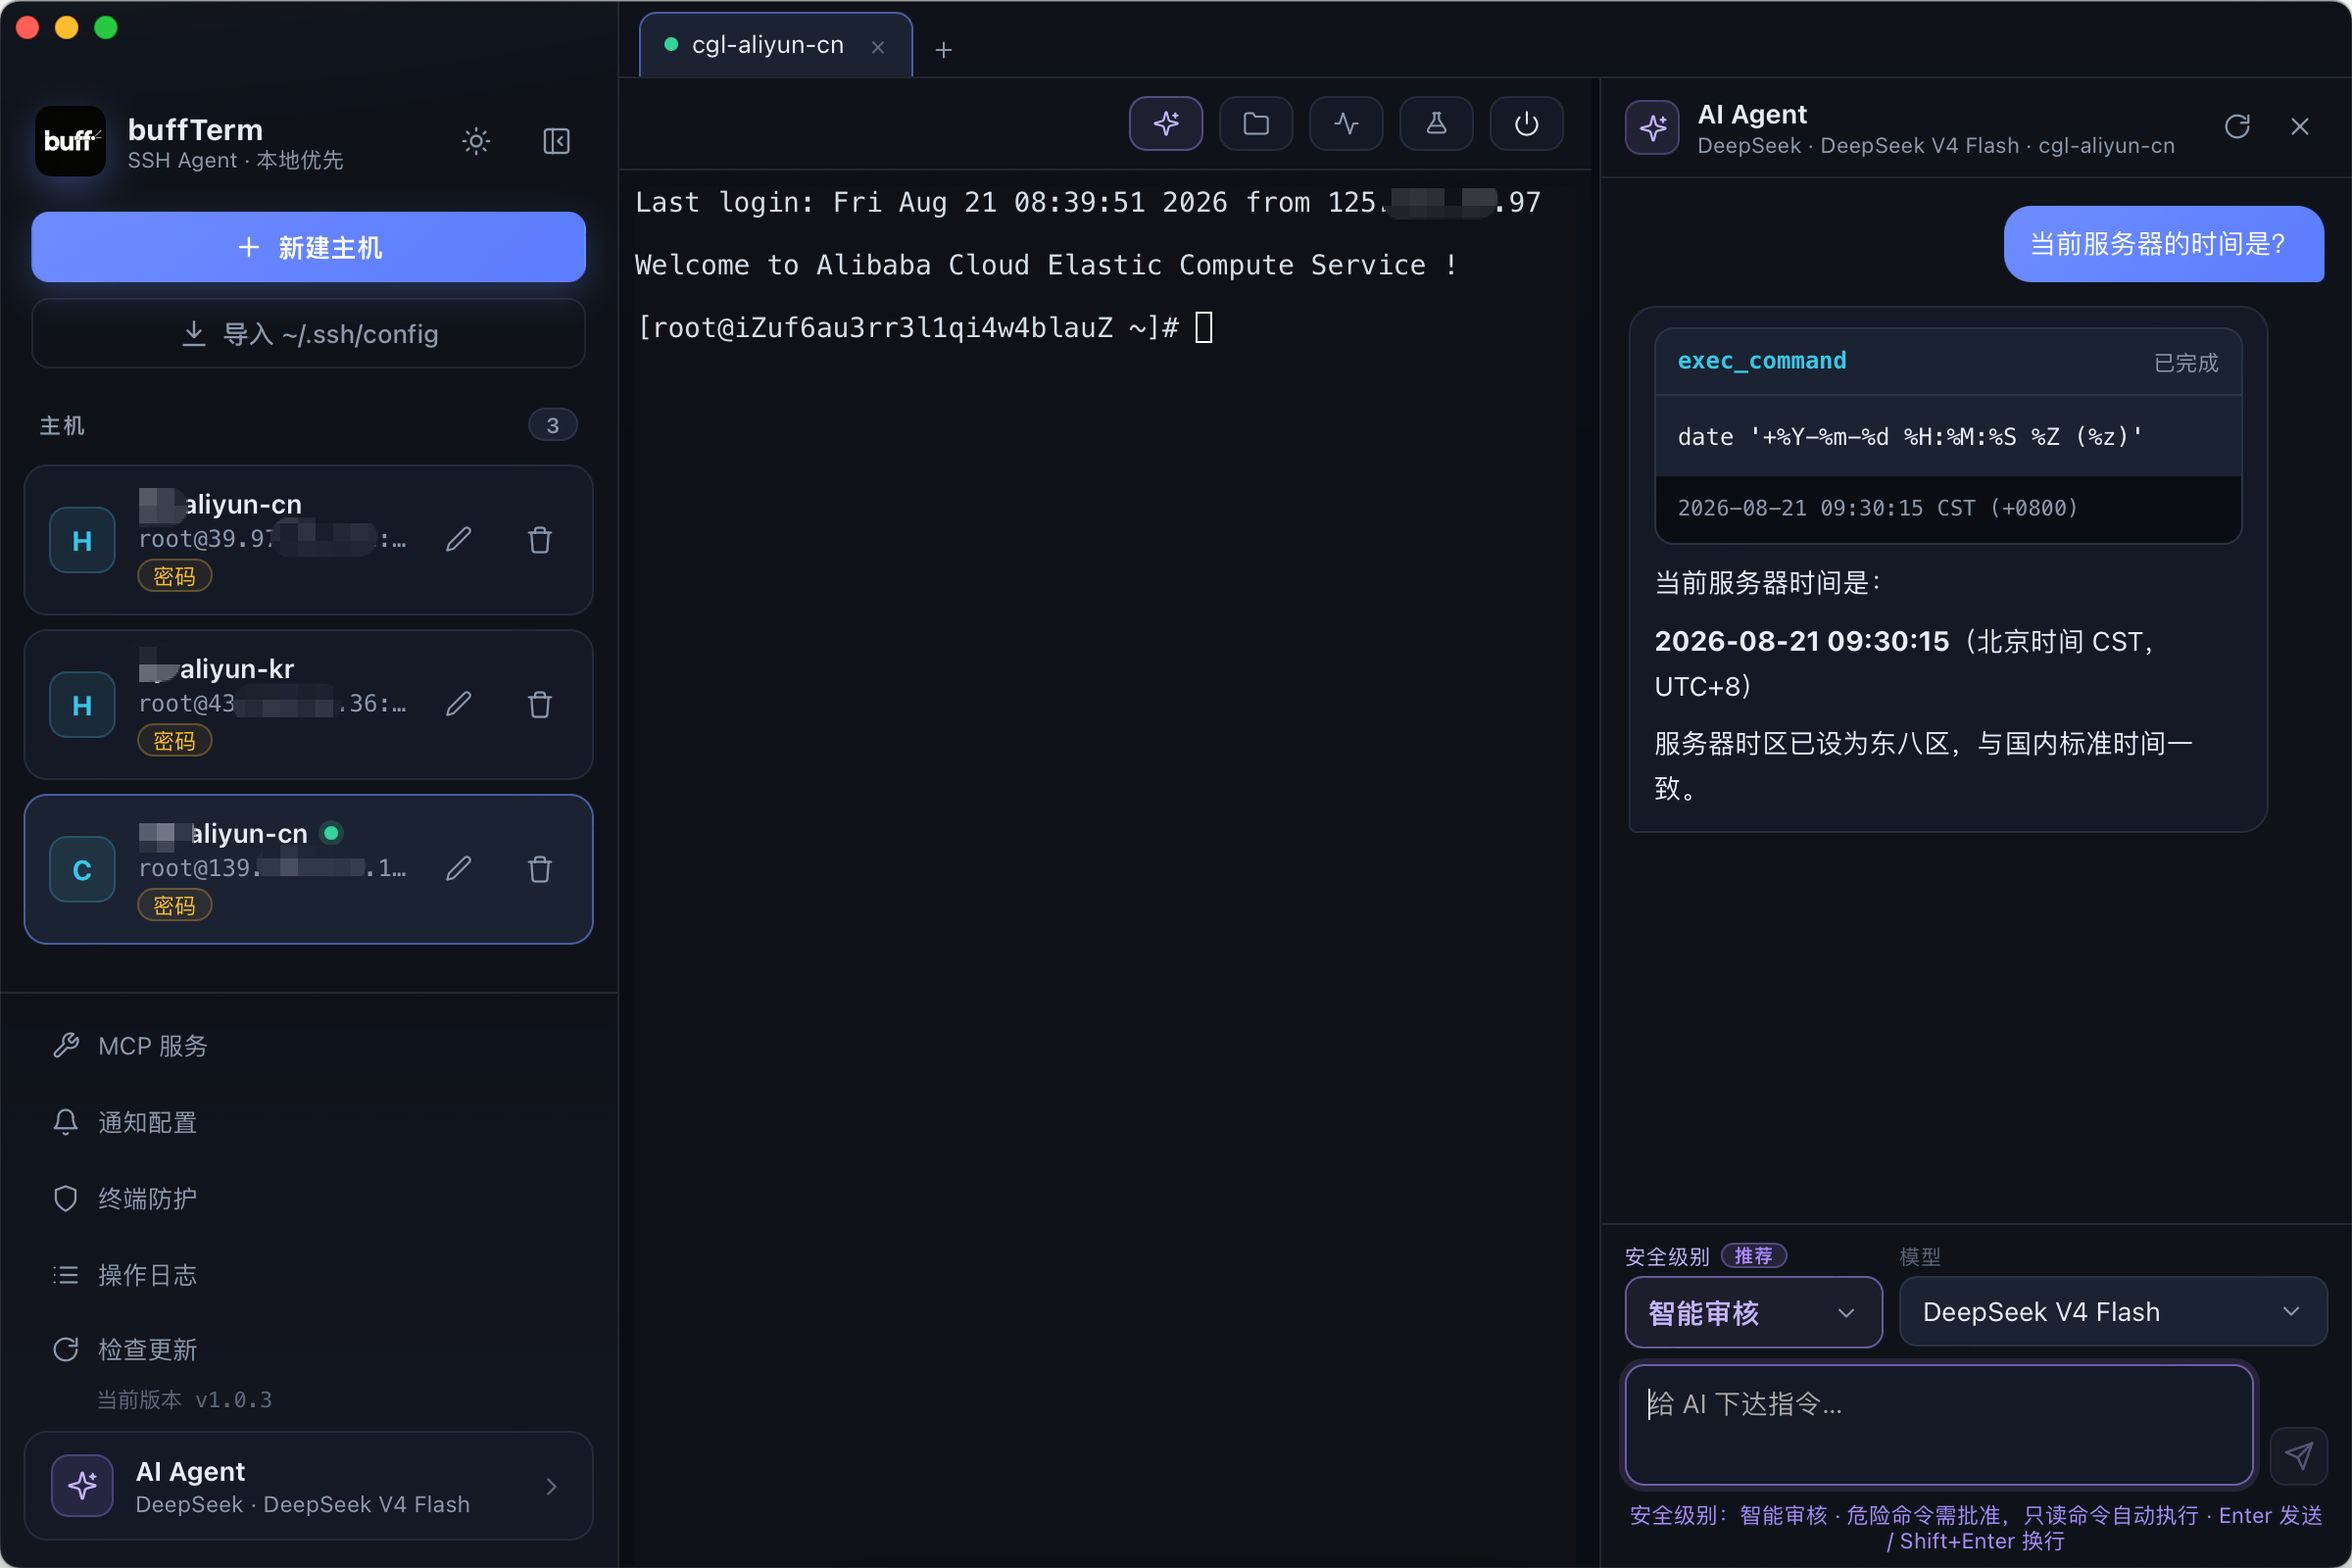
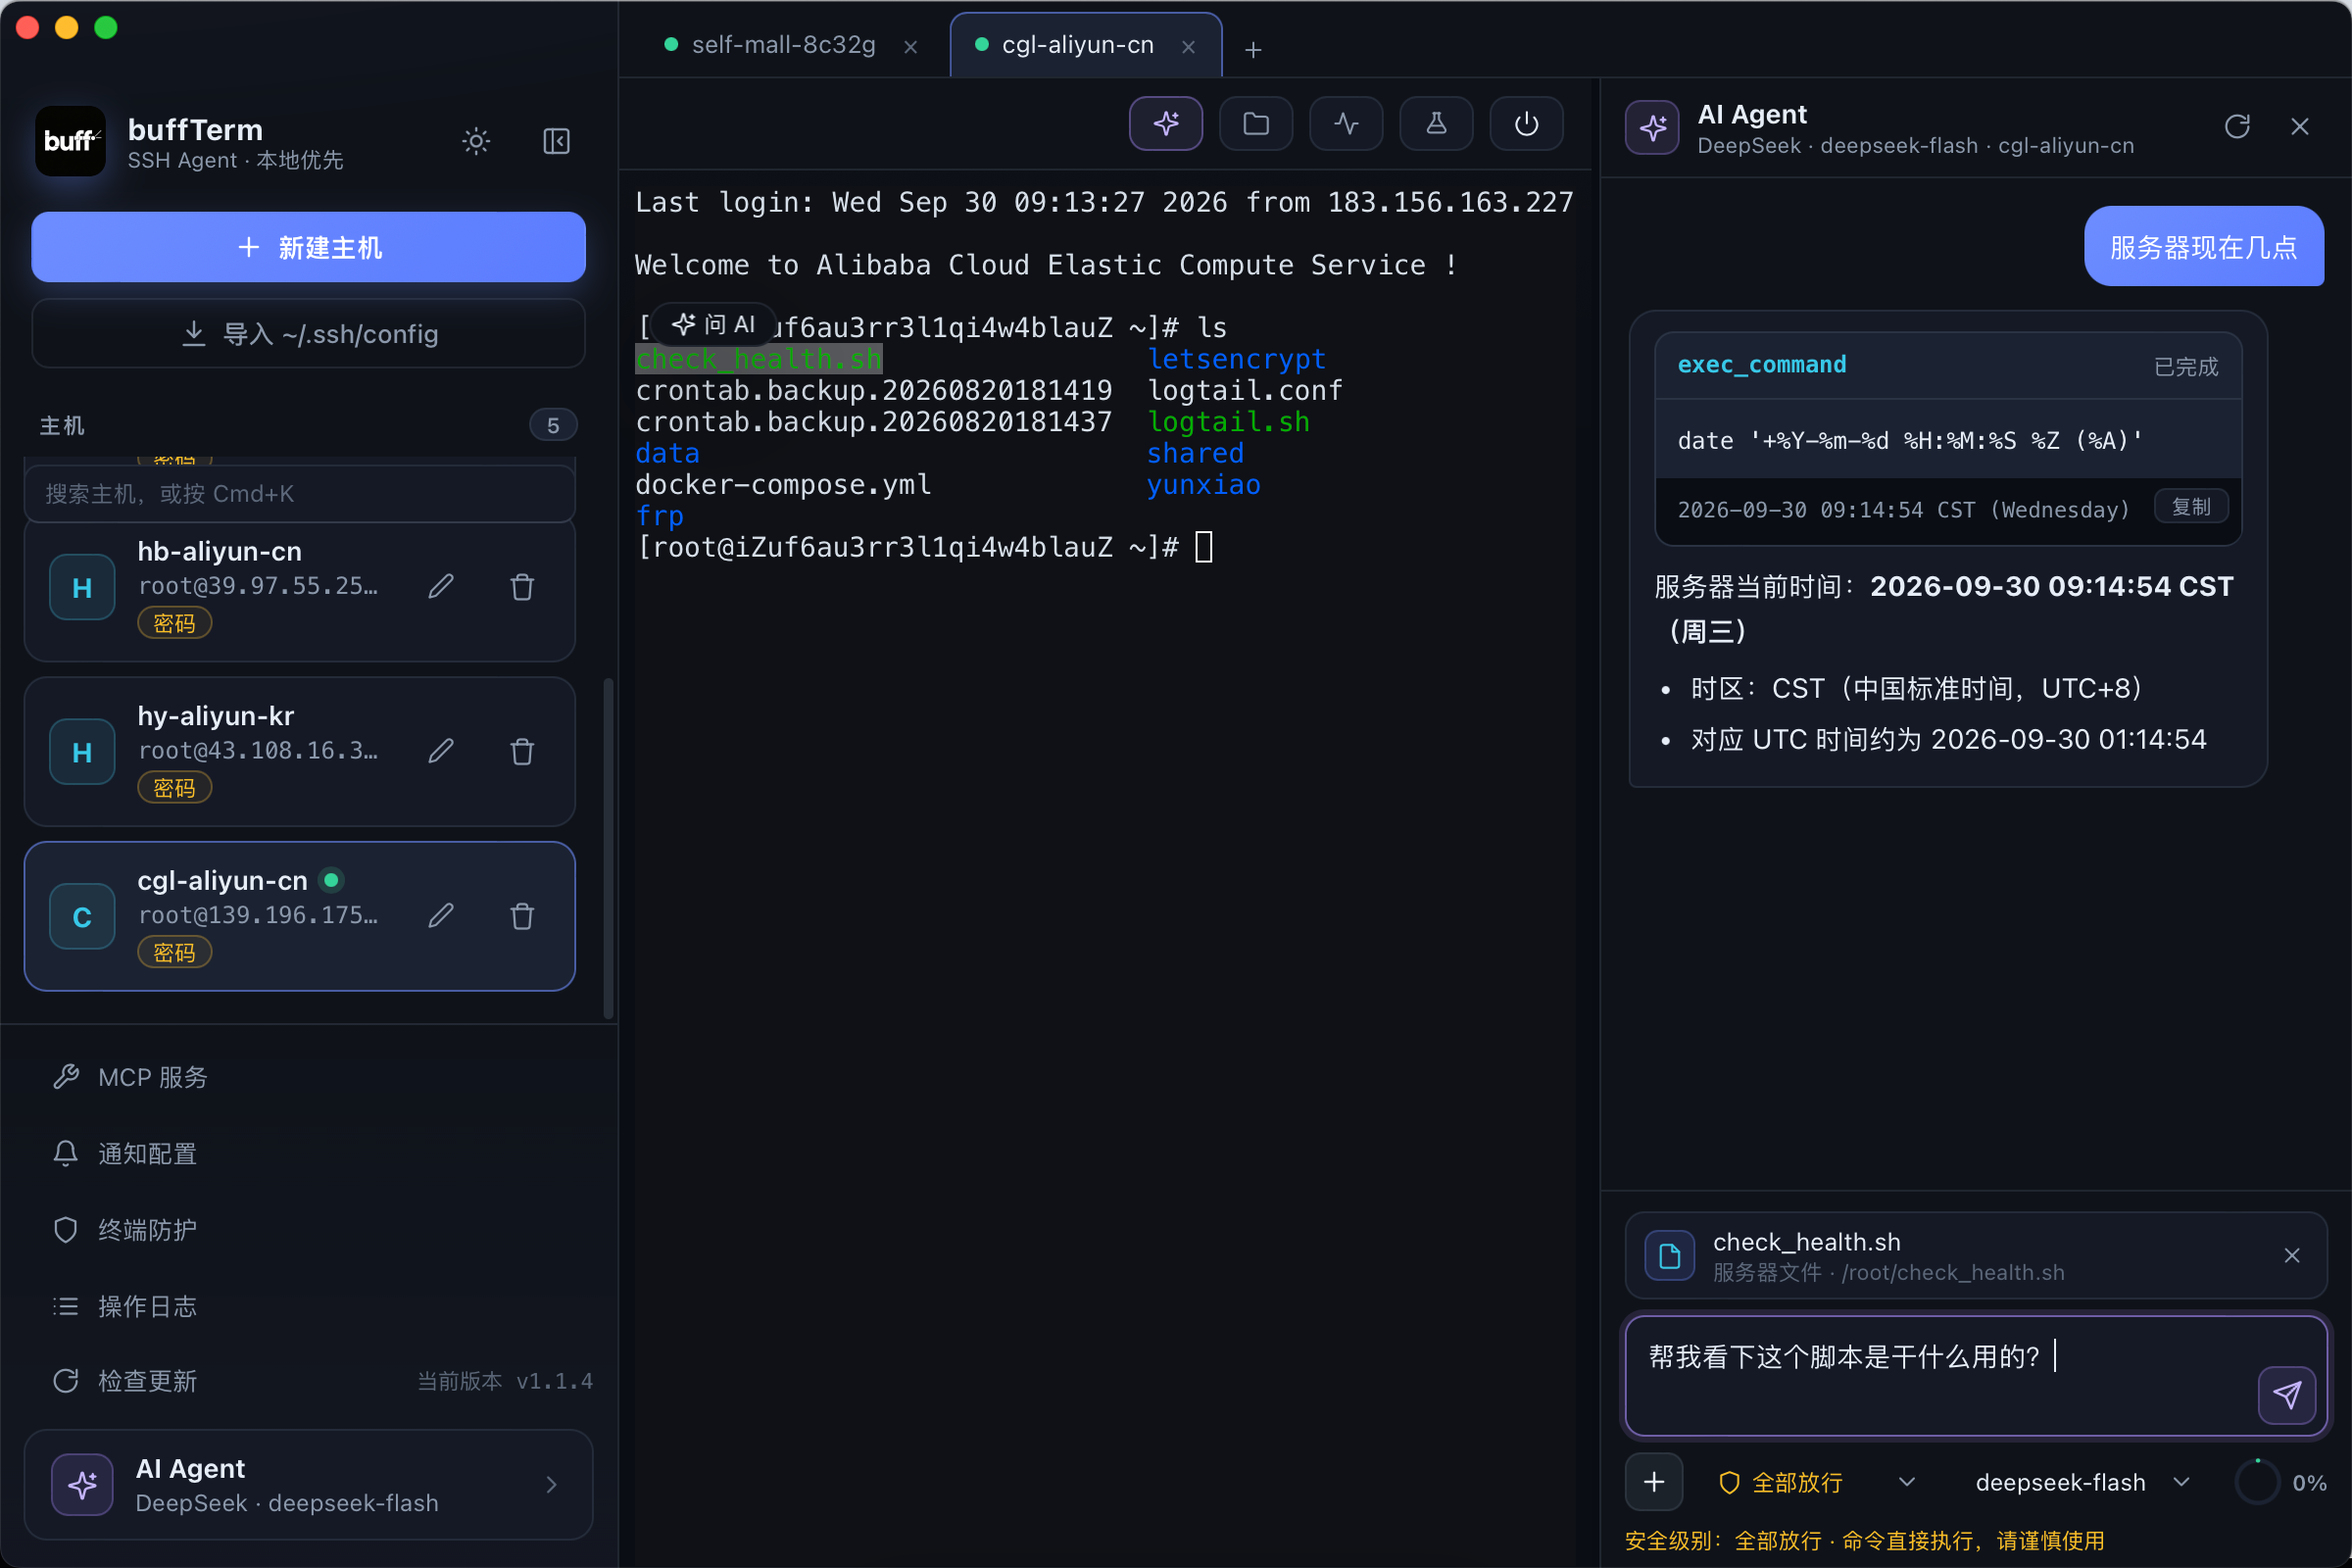
feat: hero 改为实拍大图，替换 AI 会话窗口为真实截图

diff --git a/css/style.css b/css/style.css
@@ -96,25 +96,9 @@ img { display: block; max-width: 100%; }
 .btn-ghost { border: 1px solid var(--line-strong); color: var(--text); background: var(--panel); }
 .btn-ghost:hover { border-color: var(--cyan); box-shadow: 0 0 24px rgba(34,211,238,.18); transform: translateY(-2px); }
 
-/* AI 会话窗口 */
-.chat-card { position: relative; z-index: 2; width: min(640px, 100%); margin-top: 44px; border: 1px solid var(--line-strong); border-radius: 16px; background: rgba(10,10,18,.8); box-shadow: 0 30px 80px rgba(0,0,0,.55), 0 0 0 1px rgba(34,211,238,.04); overflow: hidden; text-align: left; }
-.chat-bar { display: flex; align-items: center; gap: 7px; padding: 12px 16px; border-bottom: 1px solid var(--line); background: rgba(255,255,255,.02); }
-.chat-bar em { margin-left: 10px; font-style: normal; font-size: 12px; color: var(--dim); font-family: var(--mono); }
-.t-red,.t-yellow,.t-green { width: 12px; height: 12px; border-radius: 50%; }
-.t-red { background: #ff5f57; } .t-yellow { background: #febc2e; } .t-green { background: #28c840; }
-.chat-body { display: flex; flex-direction: column; gap: 14px; padding: 18px; max-height: 400px; overflow: hidden; }
-.chat-row { display: flex; align-items: flex-start; }
-.chat-row.user { justify-content: flex-end; }
-.chat-row.ai { gap: 10px; }
-.chat-msg { max-width: 82%; padding: 10px 14px; border-radius: 14px; font-size: 13.5px; line-height: 1.7; }
-.chat-row.user .chat-msg { background: linear-gradient(120deg, rgba(34,211,238,.18), rgba(96,165,250,.18)); border: 1px solid rgba(34,211,238,.3); border-top-right-radius: 4px; }
-.chat-row.ai .chat-msg { background: var(--panel); border: 1px solid var(--line); border-top-left-radius: 4px; }
-.chat-ai-icon { display: grid; place-items: center; width: 30px; height: 30px; border-radius: 9px; flex: none; font-size: 15px; background: var(--grad); color: #041014; box-shadow: 0 0 16px rgba(34,211,238,.35); }
-.chat-tool { margin-top: 6px; font-family: var(--mono); font-size: 11px; color: var(--dim); }
-.c-good { color: var(--green); }
-.chat-input { display: flex; gap: 8px; padding: 12px 14px; border-top: 1px solid var(--line); background: rgba(255,255,255,.02); }
-.chat-input span { flex: 1; height: 34px; border: 1px solid var(--line); border-radius: 10px; background: rgba(255,255,255,.03); }
-.chat-input i { width: 34px; height: 34px; border-radius: 10px; background: var(--grad); color: #041014; display: grid; place-items: center; font-style: normal; font-weight: 700; }
+/* Hero 实拍 */
+.hero-shot { position: relative; z-index: 2; width: min(880px, 100%); margin-top: 44px; border: 1px solid var(--line-strong); border-radius: 16px; background: #000; box-shadow: 0 30px 80px rgba(0,0,0,.55), 0 0 0 1px rgba(34,211,238,.04); overflow: hidden; }
+.hero-shot img { display: block; width: 100%; height: auto; }
 
 /* ---------- Stats ---------- */
 .stats { display: grid; grid-template-columns: repeat(4, 1fr); gap: 20px; max-width: 1120px; margin: 0 auto; padding: 30px 22px 60px; }

diff --git a/index.html b/index.html
@@ -101,32 +101,8 @@
           <span>macOS Universal</span><i></i><span>Windows x64</span><i></i><span>MIT License</span>
         </div>
       </div>
-      <div class="chat-card reveal">
-        <div class="chat-bar"><span class="t-red"></span><span class="t-yellow"></span><span class="t-green"></span><em>buffTerm — AI Agent</em></div>
-        <div class="chat-body">
-          <div class="chat-row user"><div class="chat-msg">帮我排查一下服务器的磁盘空间</div></div>
-          <div class="chat-row ai">
-            <span class="chat-ai-icon">&#129504;</span>
-            <div>
-              <div class="chat-msg">好的，我先读取磁盘占用和 /var/log 目录情况…</div>
-              <div class="chat-tool">&#8250; exec_command: df -h &amp;&amp; du -sh /var/log/*</div>
-            </div>
-          </div>
-          <div class="chat-row ai">
-            <span class="chat-ai-icon">&#129504;</span>
-            <div>
-              <div class="chat-msg">磁盘占用 <b class="c-good">76%</b>，/var/log 下有约 3.2G 旧日志，建议先归档再清理。</div>
-            </div>
-          </div>
-          <div class="chat-row user"><div class="chat-msg">顺手看看内存趋势</div></div>
-          <div class="chat-row ai">
-            <span class="chat-ai-icon">&#129504;</span>
-            <div>
-              <div class="chat-msg">内存使用率 <b class="c-good">62%</b>，近 7 天趋势平稳，暂无需处理。</div>
-            </div>
-          </div>
-        </div>
-        <div class="chat-input"><span></span><i>&#8629;</i></div>
+      <div class="hero-shot reveal">
+        <img src="pic/ai-agent.png" alt="buffTerm AI Agent 会话界面" />
       </div>
     </section>
 
